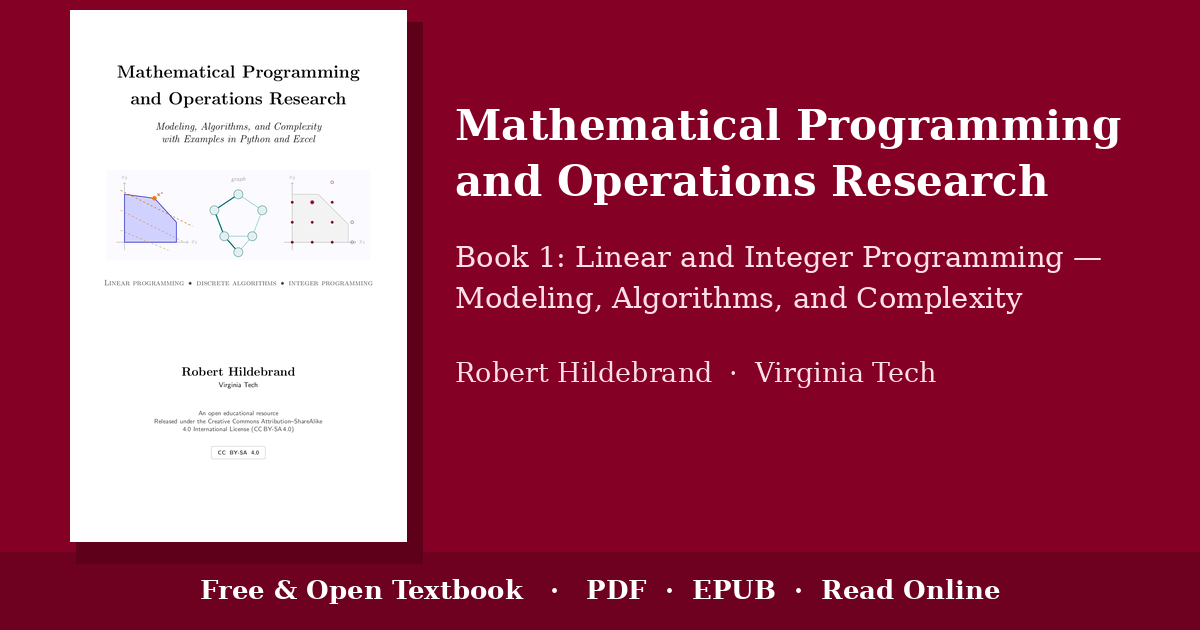
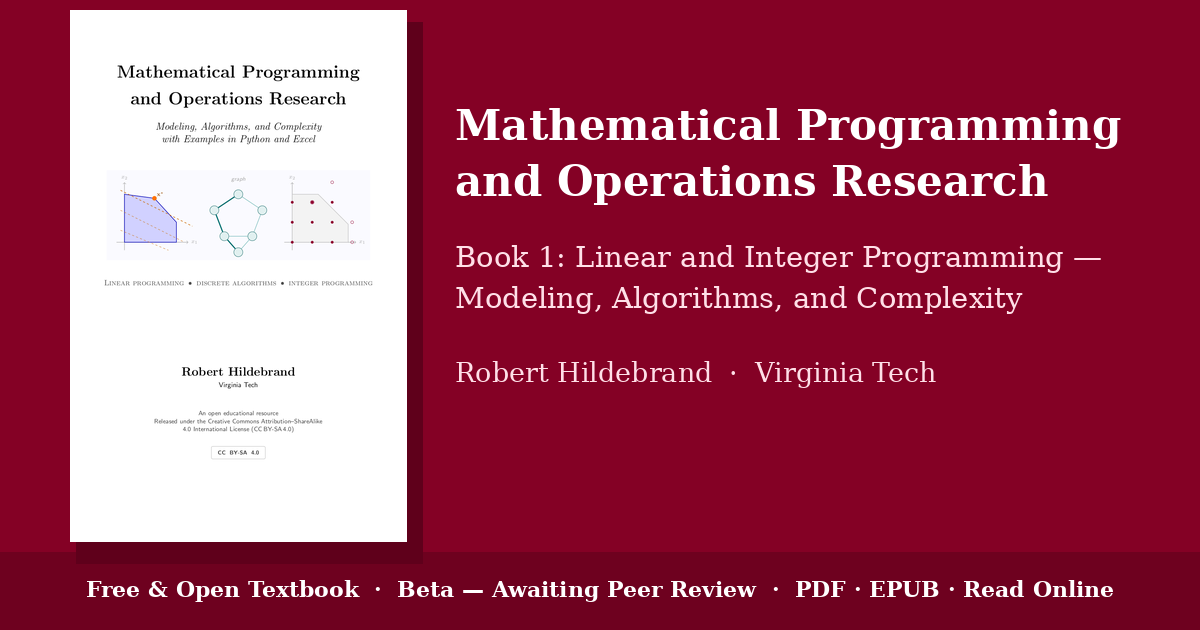
Book 1: label as Beta Version - Awaiting Peer Review (per OER librarian guidance)
- Cover page: small-caps beta line under the subtitle.
- Title page (\date in preamble/title.tex): 'Beta Version - Awaiting Peer
  Review - <date>'.
- Landing page: hero badge now 'Beta version - awaiting peer review'
  (replaces 'first complete draft' banner); meta + og descriptions updated.
- HTML edition header: beta line added; social card footer band updated.
- scripts/texstub/: commit the biblatex/ccicons draft-compile stubs (the
  /tmp copies get wiped on sandbox restarts) + README. Both books verified
  at 0 draft-compile errors with these stubs.

Changed region(s): [[0.0617, 0.9048, 0.925, 0.9651]]

diff --git a/index.html b/index.html
@@ -4,7 +4,7 @@
 <meta charset="utf-8">
 <meta name="viewport" content="width=device-width, initial-scale=1">
 <title>Mathematical Programming and Operations Research — Open Textbook</title>
-<meta name="description" content="A free and open textbook on linear and integer programming: modeling, algorithms, and complexity, with examples in Python and Excel. By Robert Hildebrand, Virginia Tech. CC BY-SA 4.0. Available as PDF, EPUB, and online HTML.">
+<meta name="description" content="A free and open textbook on linear and integer programming: modeling, algorithms, and complexity, with examples in Python and Excel. By Robert Hildebrand, Virginia Tech. CC BY-SA 4.0. Beta version, awaiting peer review. Available as PDF, EPUB, and online HTML.">
 <link rel="canonical" href="https://open-optimization.github.io/open-optimization-or-book/">
 <meta name="theme-color" content="#840125">
 
@@ -18,7 +18,7 @@
 <meta property="og:type" content="book">
 <meta property="og:site_name" content="Open Optimization">
 <meta property="og:title" content="Mathematical Programming and Operations Research — Open Textbook">
-<meta property="og:description" content="A free and open textbook on linear and integer programming: modeling, algorithms, and complexity, with examples in Python and Excel. PDF, EPUB, and read-online editions.">
+<meta property="og:description" content="A free and open textbook on linear and integer programming: modeling, algorithms, and complexity, with examples in Python and Excel. Beta version, awaiting peer review. PDF, EPUB, and read-online editions.">
 <meta property="og:url" content="https://open-optimization.github.io/open-optimization-or-book/">
 <meta property="og:image" content="https://open-optimization.github.io/open-optimization-or-book/social-card.png">
 <meta property="og:image:width" content="1200">
@@ -62,7 +62,7 @@
   <p>By Robert Hildebrand, adapted in part from open resources</p>
   <p style="margin-top:.9rem;"><span style="background:#fff;color:var(--accent);
      padding:.35rem .9rem;border-radius:999px;font-size:.95rem;">
-     &#127881; The first complete draft is available now!</span></p>
+     Beta version &mdash; awaiting peer review</span></p>
 </header>
 <main>
   <div class="hero">

diff --git a/html/index.html b/html/index.html
@@ -25,7 +25,8 @@
  .meta { color: #555; font-size: .9rem; }
 </style></head><body>
 <h1>Mathematical Programming and Operations Research<br>
-<small>Book 1: Linear and Integer Programming</small></h1>
+<small>Book 1: Linear and Integer Programming</small><br>
+<small style="font-size:.75em;color:#a05a6b;">Beta version &mdash; awaiting peer review</small></h1>
 <p class="meta">By Robert Hildebrand, adapted in part from open resources · CC BY-SA 4.0 ·
 <a href="../">Book home</a> ·
 <a href="../epub-build/book1-epub.epub">Download EPUB</a> ·

diff --git a/Intro-Math-Programming/baseText/book/frontmatter/cover.tex b/Intro-Math-Programming/baseText/book/frontmatter/cover.tex
@@ -26,7 +26,12 @@
   Modeling, Algorithms, and Complexity\\
   with Examples in Python and Excel\par}
 
-\vspace{0.5in}
+\vspace{0.2in}
+
+{\fontsize{11}{14}\selectfont\scshape\color{chaptertitlecolour}
+  Beta Version --- Awaiting Peer Review\par}
+
+\vspace{0.3in}
 
 %% ============================================================
 %% Centerpiece: layered TikZ composition

diff --git a/Intro-Math-Programming/baseText/book/preamble/title.tex b/Intro-Math-Programming/baseText/book/preamble/title.tex
@@ -1,6 +1,7 @@
  \title{ \textbf{Mathematical Programming and\\ Operations Research}\\ Modeling, Algorithms, and Complexity\\
  Examples in Excel and Python}
   \author{Robert Hildebrand}
+  \date{Beta Version --- Awaiting Peer Review --- \today}
 
 %%% Local Variables:
 %%% mode: latex

diff --git a/scripts/texstub/README.md b/scripts/texstub/README.md
@@ -1,0 +1,12 @@
+# Draft-compile stubs
+
+Minimal `biblatex.sty` and `ccicons.sty` stubs for sandbox draft compiles
+(no biber / ccicons in the sandbox TeX). Usage from `book/`:
+
+    cp scripts/texstub/*.sty /tmp/texstub/   # or point TEXINPUTS here directly
+    rm -f book2-main.aux
+    TEXINPUTS=/tmp/texstub: pdflatex -interaction=nonstopmode -draftmode \
+        -file-line-error book2-main.tex
+
+Expect 0 matches of `':[0-9]*: '` in the log. Never use these for real
+builds - citations render as [ref]/[author]/[title] placeholders.
